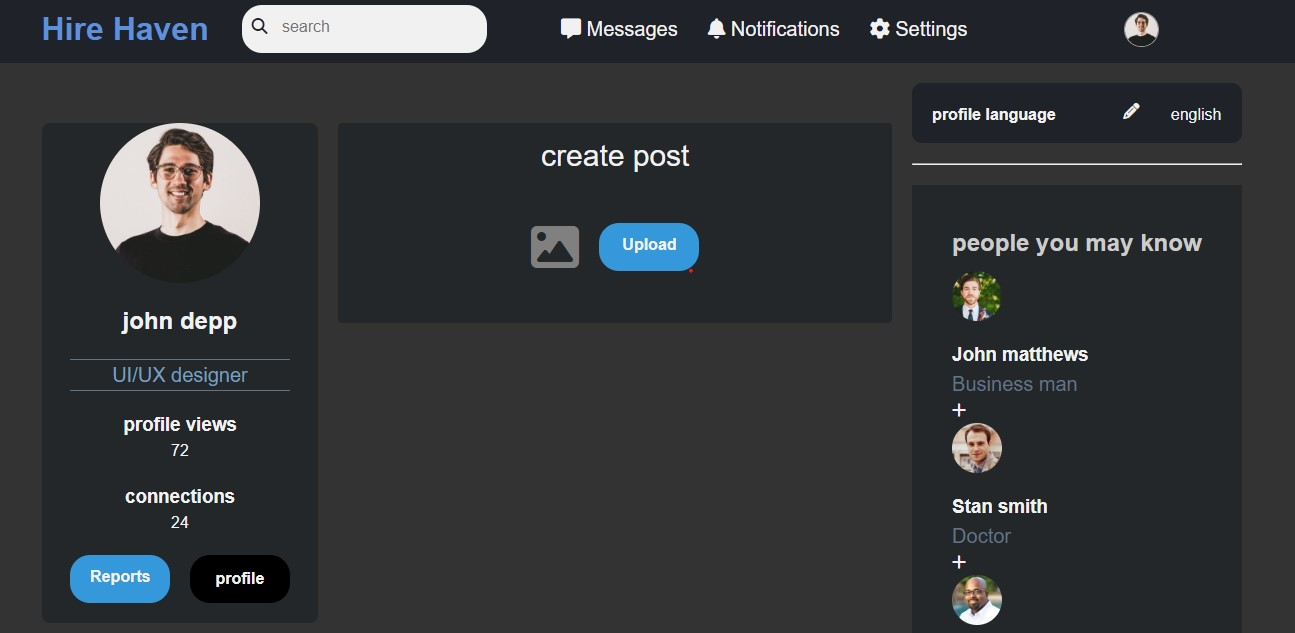
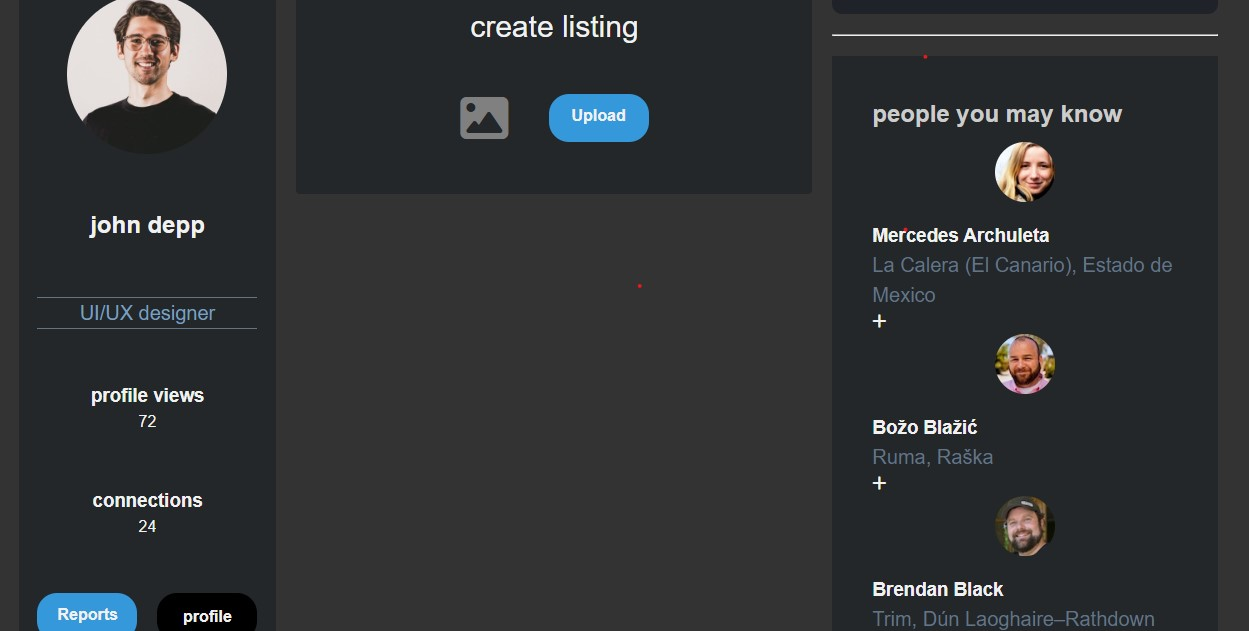
updated code to follow guidelines

diff --git a/home.html b/home.html
@@ -14,6 +14,7 @@
         <link rel="stylesheet" href="https://cdnjs.cloudflare.com/ajax/libs/font-awesome/6.6.0/css/all.min.css" integrity="sha512-Kc323vGBEqzTmouAECnVceyQqyqdsSiqLQISBL29aUW4U/M7pSPA/gEUZQqv1cwx4OnYxTxve5UMg5GT6L4JJg==" crossorigin="anonymous" referrerpolicy="no-referrer">
         <link rel="stylesheet" href="https://cdn.jsdelivr.net/gh/mrspecht/cdn/reset.css" media="all">
         <link rel="stylesheet" href="./assets/css/home.css" media="all">
+        <script  type="module" src="./assets/js/app.js"></script>
     </head>
     <body>
         <header>
@@ -75,7 +76,7 @@
                 <div class="post-container grid grid-center">
                     <form class="post-form">
                         <div>
-                            <p class="post-text">create post</p>
+                            <p class="post-text">create listing</p>
                             
                     </div>
                         <div class="post-controls flex flex-between">
@@ -86,7 +87,8 @@
                         </div>
                     </form>
                    
-                </div>  
+                </div>
+                 
                
                 <div class="  grid ">
                     <div class = "profile-settings flex flex-between">
@@ -98,16 +100,17 @@
                     <h2 class="title">people you may know</h2>
                     
                     <div class="random-container gap-30">
-                        <img src="./assets/imgs/random1.jpg" class="random-photo">
-                        <h3>John matthews</h3>
-                        <p class="job">Business man</p>
+                        <img src="" class="random-photo">
+                        <h3></h3>
+                        <p class="job"></p>
                         <i class="fa-solid fa-plus"></i>
-                        <img src="./assets/imgs/random3.jpg" class="random-photo">
-                        <h3>Stan smith</h3>
-                        <p class="job">Doctor</p><i class="fa-solid fa-plus"></i>
-                        <img src="./assets/imgs/83.jpg" class="random-photo">
-                        <h3>elvis presley</h3>
-                        <p class="job">software developer</p><i class="fa-solid fa-plus"></i>
+                        <img src="" class="random-photo">
+                        <h3></h3>
+                        <p class="job"></p><i class="fa-solid fa-plus"></i>
+                        <img src="" class="random-photo">
+                        <h3></h3>
+                        <p class="job"></p><i class="fa-solid fa-plus"></i>
+                       
                         
                         <h4 class="see-all"> see all(308)</h4>
                   

diff --git a/assets/js/app.js b/assets/js/app.js
@@ -1,37 +1,47 @@
 'use strict';
 
-// Helper functions for DOM selection
-function select(selector, scope = document) {
-  return scope.querySelector(selector);
-}
+import { select, selectAll, listen } from "./utils.js";
 
-const loginForm = select('form');
-const usernameInput = select('input[placeholder="email or phone"]');
-const passwordInput = select('input[placeholder="password"]');
+const API_URL = 'https://randomuser.me/api/?results=3'; 
+const randomContainer = select('.random-container'); 
+const nameElements = selectAll('.random-container h3'); 
+const jobElements = selectAll('.random-container .job'); 
+const imageElements = selectAll('.random-container img'); 
 
-// Set default credentials in localStorage
-localStorage.setItem('username', 'davidike444@gmail.com');
-localStorage.setItem('password', '123456');
+listen('load', window, () => {
+    getRandomUsers();
+});
 
+async function getRandomUsers() {
+  try {
+    const response = await fetch(API_URL);
 
-function validateLogin(event) {
-  event.preventDefault(); 
+    if (!response.ok) {
+      throw new Error(`${response.statusText} (${response.status})`);
+    }
 
-  // Get user input
-  const enteredUsername = usernameInput.value.trim();
-  const enteredPassword = passwordInput.value.trim();
+    const data = await response.json();
+    const users = data.results;
 
-  const storedUsername = localStorage.getItem('username');
-  const storedPassword = localStorage.getItem('password');
-
-  if (enteredUsername === storedUsername && enteredPassword === storedPassword) {
-    window.location.href = 'home.html'; 
-  } else {
-   
-    const errorMsg = select('.wrong-password');
-    errorMsg.classList.remove('hidden'); 
+    populateRandomUsers(users);
+  } catch (error) {
+    console.error(error.message);
   }
 }
 
+function populateRandomUsers(users) {
+    users.forEach((user, index) => {
+        if (nameElements[index]) {
+            nameElements[index].textContent = `${user.name.first} ${user.name.last}`;
+        }
 
-loginForm.addEventListener('submit', validateLogin);
+        if (jobElements[index]) {
+            jobElements[index].textContent = `${user.location.city}, ${user.location.state}`;
+        }
+
+        if (imageElements[index]) {
+            imageElements[index].src = user.picture.medium;
+            imageElements[index].classList.add('profile-photo');
+        }
+    });
+}

diff --git a/assets/css/home.css b/assets/css/home.css
@@ -297,7 +297,7 @@ textarea{
     background-color: #23272a;
     width:300px;
     border-radius: 8px;
-    height:500px;
+    height:700px;
     justify-content: center;
     text-align: center;
   p{
@@ -310,7 +310,7 @@ textarea{
 
 
 .followings{
-    height:620px;
+    height:700px;
     background-color: #23272a;
     margin-top:20px;
     padding:40px;
@@ -347,7 +347,7 @@ textarea{
 }
 .random-photo{
     border-radius: 50%;
-    width:50px;
+    height:60px;
     margin-bottom: 20px;
 }
 .main{

diff --git a/index.html b/index.html
@@ -19,7 +19,7 @@
             media="all"
         >
         <link rel="stylesheet" href="./assets/css/style.css" media="all">
-        <script type="module" src="./assets/js/app.js" defer></script>
+        <script type="module" src="./assets/js/login.js" defer></script>
     </head>
     <body>
         <main>
